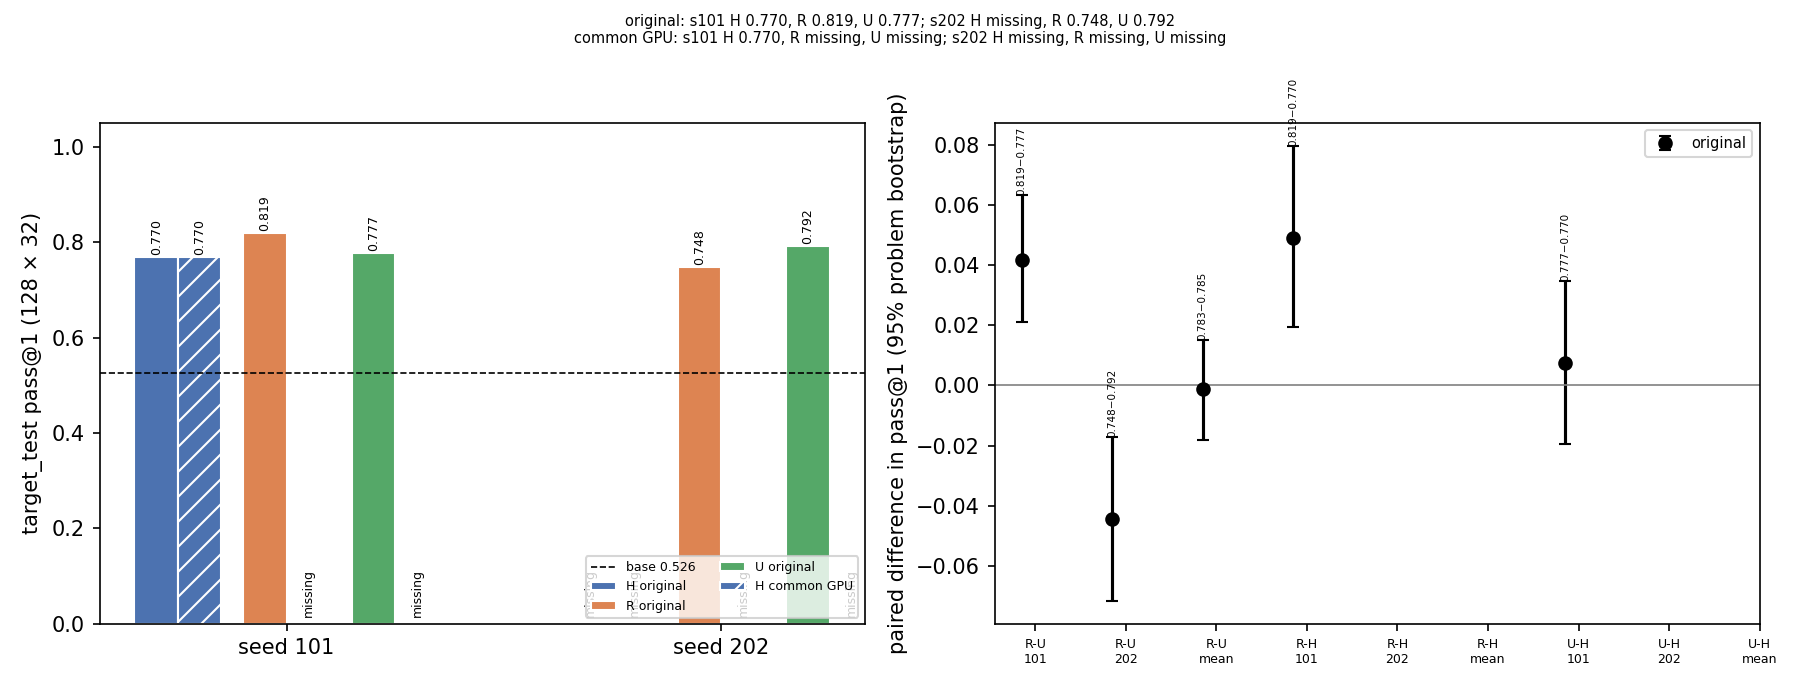
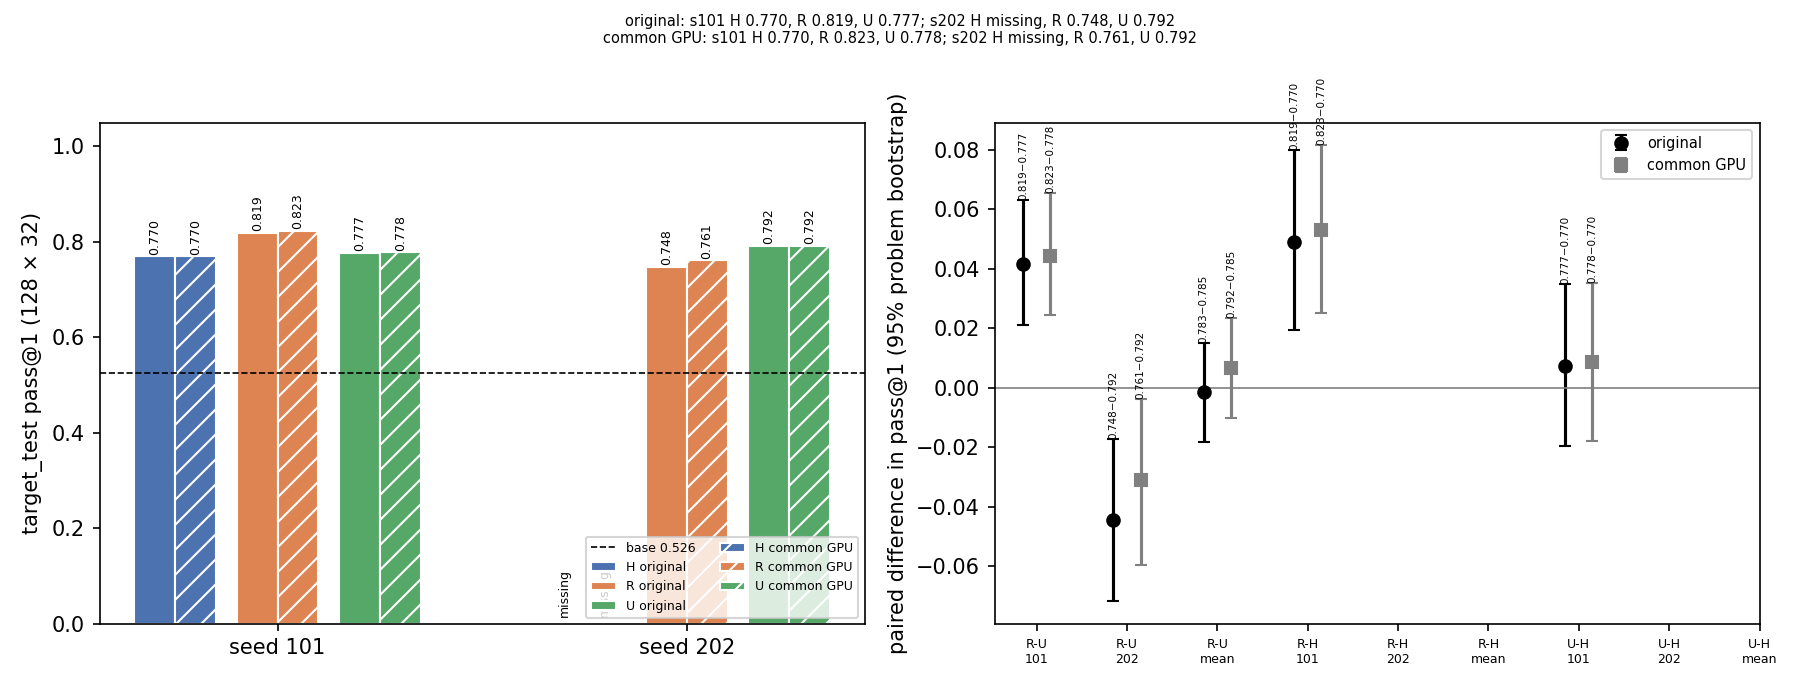
Review 100: common-GPU table complete (U-s101 L40S 0.778); REPORT section 1 filled; endpoints figure

diff --git a/research/CHECKLIST.md b/research/CHECKLIST.md
@@ -128,11 +128,11 @@ Priorities (§8 of A17): H-s202 > common-GPU R/U > CPU analyses > balanced stres
 - 8.1 active — H-s202 resume: checkpoint r60 verified (hashes OK, 01:45Z); job 11112377 general; `retain_rounds` [64]; trajectory a2-r60 is the endpoint; a2-orig kept (`metrics.pre_resume_a17.jsonl`). ETA round 128 from observed s/round (review updates it).
   - 8.1b ready (D150; trigger already met at 10:51Z: projected RUN_COMPLETE 23:30Z–00:20Z) — at 18:00Z: `ops/qis-submit qis-h202-fallback-copy` (CPU; copies model.pt + state.json of the round in LATEST.json to `ckpt/qis-main-H-s202-sym-fallback/ckpt/`, verifies the hash, writes ROUND.txt), then `qis-test-H-s202-fb-k0..k5 --after qis-h202-fallback-copy` (k0–1 general, k2–5 preempt; merge into `test-eval/qis-test-H-s202-sym-fallback`). LATEST.json parsing tested on the standby. Report as "H-s202 at round N (incomplete run)" outside primary tables.
   - 8.1a pending — sealed test as 6 shards `qis-test-H-s202-sym-k0..k5` (D149; merge validated on U-s202, byte-identical). Submit at RUN_COMPLETE (ETA ≈ 21:30Z, range 20:45–22:15Z; Review 94); test ≈ 1.7 h on 3 general GPUs; keep general free of stress work from ≈ 19:30Z; cut-off for the report ≈ 23:45Z.
-- 8.2 active (D141 frozen before any score) — common-GPU reruns, L40S, seed label `test-final`. H-s101 + base originals already L40S.
+- 8.2 done for R/U (11:55Z; H-s202 cell waits for its endpoint) (D141 frozen before any score) — common-GPU reruns, L40S, seed label `test-final`. H-s101 + base originals already L40S.
   - R-s101 11112395 done 05:43Z (L40S): pass@1 0.823 (original L40 0.819), pass@8 0.962, truncated 10.9% (orig 10.7%), 0 unknown, 3.93 h.
   - R-s202 11112396 done 05:57Z (L40S): pass@1 0.761 (original L40 0.748), pass@8 0.934, truncated 12.4% (orig 13.1%), 0 unknown, 4.15 h. Against U-s202 original (L40S) 0.792: R − U −0.031 (orig −0.044); sign kept. Intervals from a17_test --cgpu-root after U-s202 rerun.
   - U-s202 11112398 done 09:04Z: identical to original (4,096/4,096 token sequences). a17_test --cgpu-root run (D151; `research/evidence/a17/analysis/test-cgpu/`). Rerun a17_test when U-s101 rerun lands. Stress R-s202-r128 11112940 moved to general 05:59Z.
-  - U-s101 11112397 preempted 05:44Z after 2.95 h (no partial output; evaluator writes at end); pending on preempt. Lowest priority (D146); move to general only if a slot is free and ≥ 4.5 h remain before 19:30Z.
+  - U-s101 11112397 done: eval finished 11:18Z at the moment of preemption; moved to general, completed 11:53Z; ckpt hash verified. pass@1 0.778 (original 0.777); 1,964/4,096 identical sequences (same GPU type, different node). s101 R − U on L40S +0.044 [+0.024, +0.065]. a17_test rerun; REPORT §1 tables filled; endpoints figure redrawn (legend overlaps s202 bars: fix in 8.7).
 - 8.3 active — CPU analyses: `a17_test.py` (reversal §3.1, coverage §3.2, sampling null §3.5, endpoints §2) and `a17_train.py` (signal §3.3, persistence §3.4, dev transitions + n check §3.5, branches §4, figures 2–4); code by delegated agents → run on compute → verify against existing tables.
 - 8.4 active — Stress panels: rubric v1 committed (before export); pool 2,039 (MATH 1,104, Omni-MATH 769, OlympiadBench 166); 976 hash-ordered items in 8 agent-annotated batches; `qis.data.stress_panels` selects/dedups/verifies/freezes (job `qis-stress-select`); freeze → D142 with hashes. Risk: yield ≈ 8% per batch → may fall short of 128 per tier; extend annotation to the rest of the pool; report exact counts if short.
 - 8.5 active — Stress evals (`qis-stress-*`, L40S, n = 8, seed label stress-v1, 221 problems; every done cell: 1,768/1,768 attempts, 0 unknown; trained cells: ckpt hash verified):

diff --git a/research/REVIEWS.md b/research/REVIEWS.md
@@ -959,3 +959,25 @@ Opened 18:05Z; closed late at 19:05Z without an entry. Only action: monitor 1110
    fill REPORT sections from D151/D152.
 7. **Reconciliation.** Live IDs 11112377, 11112397 and standby 11112647 are ledger rows; 11115377 completed. Watcher re-armed
    after the R-s101-r64 event (task bqhmii0g8).
+
+## Review 100 — 2026-11-11 11:50Z (6:50 AM EST Wed)
+1. **Changes.**
+   - Response audit done (D153): 96 responses, two blind reads each, category agreement 88/96. 29 of 70 failure reads judged
+     fixable by more factoring practice. Grader limitation found (separate boxes → last box only); sealed test affected by
+     ≤ 3/4,096 attempts per cell (≤ 0.07 points).
+   - cgpu U-s101 11112397: eval finished 11:18Z at the moment of preemption (third job with this pattern, after 11113928
+     and 11115377). Moved to general; completed 11:53Z; ckpt hash verified. U-s101 L40S 0.778 vs original 0.777.
+   - Common-GPU table complete for R and U: s101 R − U 0.823 − 0.778 = +0.044 [+0.024, +0.065]; s202 −0.031 [−0.060,
+     −0.004]; mean +0.007 [−0.010, +0.023]. New: same GPU type is not always bit-identical (U-s101 1,964/4,096 identical
+     sequences; U-s202 4,096/4,096). pass@1 moved ≤ 1.3 points in every rerun. REPORT §1 filled; endpoints figure redrawn.
+   - CPU standby 11112647 was preempted 11:14Z and requeued on babel-m5-24 (running).
+2. **Competing explanation still plausible.** Unchanged: seed-level length drift against an arm effect (A9.4).
+3. **Distinguishing task.** None within scope. H-s202's endpoint adds the seed-202 H cell; it cannot separate run from arm.
+4. **Schedule.** H-s202 rounds 94–96 ran ×1.02 of H-s101 (len_mean fell to 4,292–4,344); round 96 at 11:13Z, then the r96
+   eval. Cumulative ×1.24 since round 66. Round 128 ≈ 21:20Z (×1.1) to 22:50Z (×1.27); RUN_COMPLETE ≈ 1 h later
+   (22:20Z–23:50Z); six-shard endpoint ≈ 1 h after that → 23:20Z–00:50Z. Endpoint before 00:30Z: possible, not likely.
+   D150 fallback stays at 18:00Z (decide by the rule then). Report: on time.
+5. **GPUs.** General 1/3 (H-s202). Preempt 0/6. Within limits.
+6. **Most important.** REPORT fill continues (What we learned item 1–2 wording with cgpu; section 8 run/cost table;
+   incomplete-cell list). Fix the endpoints legend overlap.
+7. **Reconciliation.** Live IDs 11112377 and standby 11112647 are ledger rows. Watcher re-armed (task bo4i0sb9k).

diff --git a/reports/REPORT.md b/reports/REPORT.md
@@ -73,7 +73,25 @@ L40S for every cell, unchanged code, and the original per-item sampling seeds. S
 rerun should reproduce its original exactly, and an R rerun changes only the hardware. H-s101 and the base model
 already ran on L40S under this recipe, so their originals are the common cells.
 
-⟨PENDING: common-GPU table and reproducibility table (identical attempts, identical c/32, Δ pass@1).⟩
+| Seed | H | R | U | R − U | R − H | U − H |
+|---|---|---|---|---|---|---|
+| 101 | 77.0% | 82.3% | 77.8% | 82.3 − 77.8 = +4.4 [+2.4, +6.5] | 82.3 − 77.0 = +5.3 [+2.5, +8.2] | 77.8 − 77.0 = +0.9 [−1.8, +3.5] |
+| 202 | ⟨PENDING⟩ | 76.1% | 79.2% | 76.1 − 79.2 = −3.1 [−6.0, −0.4] | ⟨PENDING⟩ | ⟨PENDING⟩ |
+| Mean | ⟨PENDING⟩ | 79.2% | 78.5% | 79.2 − 78.5 = +0.7 [−1.0, +2.3] | ⟨PENDING⟩ | ⟨PENDING⟩ |
+
+How closely each rerun reproduced its original (4,096 attempts each; every request seed identical):
+
+| Checkpoint | GPU: original → rerun | Identical token sequences | Identical score per problem (c/32) | pass@1 rerun − original |
+|---|---|---|---|---|
+| R-s101 | L40 → L40S | 48/4,096 | 62/128 | 82.3 − 81.9 = +0.4 [−0.8, +1.6] |
+| R-s202 | L40 → L40S | 133/4,096 | 46/128 | 76.1 − 74.8 = +1.3 [+0.2, +2.5] |
+| U-s101 | L40S → L40S | 1,964/4,096 | 79/128 | 77.8 − 77.7 = +0.1 [−1.0, +1.2] |
+| U-s202 | L40S → L40S | 4,096/4,096 | 128/128 | 79.2 − 79.2 = +0.0 |
+
+The GPU type does not explain the seed reversal. On one GPU type, R − U is still +4.4 points in seed 101 and −3.1
+in seed 202. A rerun moved pass@1 by at most 1.3 points, even where most token sequences changed. Even the same GPU type
+does not guarantee identical sequences: U-s202 reproduced exactly, but U-s101 matched on only 48% of attempts (a
+different node and a run two days later; the cause is unknown).
 
 ![Original and common-GPU endpoints](figures/a17/endpoints.png)
 

diff --git a/research/STATE.md b/research/STATE.md
@@ -50,8 +50,8 @@ truncation by arm/role reported, 5% crossing → inspect only. A6 thinking-mode 
 - H-s202 resumed from round 60 (a2-r60); original r60–64 records backed up (D143).
 
 ## Next actions
-1. Watch H-s202 (job 11112377; round 93 at 10:36Z, ×1.27 of H-s101 since round 66 → RUN_COMPLETE ≈ 23:30Z–00:20Z, after the deadline). D150 fallback trigger met: at 18:00Z copy the latest checkpoint and run the six-shard test on it. At RUN_COMPLETE submit the 6 endpoint shards.
-2. Common-GPU (D151): U-s202 L40S rerun identical to original (4,096/4,096 sequences). s202 R − U on L40S 0.761 − 0.792 = −0.031 [−0.060, −0.004]; hardware moved R by ≤ 1.3 points. U-s101 rerun (optional) running, ETA ≈ 11:30Z.
+1. Watch H-s202 (job 11112377; round 96 at 11:13Z; rounds 94–96 ×1.02 of H-s101, cumulative ×1.24 → round 128 ≈ 21:20Z–22:50Z, RUN_COMPLETE ≈ 22:20Z–23:50Z). D150 fallback decision at 18:00Z (recipes ready, 8.1b). At RUN_COMPLETE submit the 6 endpoint shards.
+2. Common-GPU (D151) complete for R and U: s101 R − U on L40S 0.823 − 0.778 = +0.044 [+0.024, +0.065]; s202 −0.031 [−0.060, −0.004]. Reruns moved pass@1 ≤ 1.3 points. Same GPU type is not always bit-identical (U-s101 48% identical sequences, U-s202 100%).
 3. Stress evals (D152, 8 of 9 cells): s101 R − U +0.042 [+0.015, +0.068], R − H +0.054 [+0.025, +0.082]; s202 R − U −0.027 [−0.051, −0.002] = truncation −0.063 + accuracy +0.036. R-s101 r64 → r128 +0.053, almost all truncation term. H-s202-r128 after RUN_COMPLETE.
-4. Response audit (D144) after stress evals; second-read agreement.
+4. Response audit done (D153): 29/70 failure reads fixable by more factoring practice; two-box grader limitation ≤ 0.07 pts on the sealed test.
 5. REPORT rewrite (What we learned; figures embedded; absolute values with deltas; dev n=8 fix); verification audit; deliver.

diff --git a/research/evidence/a17/analysis/test-cgpu/endpoints.md b/research/evidence/a17/analysis/test-cgpu/endpoints.md
@@ -14,9 +14,9 @@ Base model: pass@1 0.526, pass@8 0.835.
 
 | Seed | H | R | U | R − U | R − H | U − H | pass@8 H / R / U |
 |---|---|---|---|---|---|---|---|
-| 101 | 0.770 | 0.823 | missing | missing | 0.823 − 0.770 = +0.053 [+0.025, +0.082] | missing | 0.937 / 0.962 / missing |
+| 101 | 0.770 | 0.823 | 0.778 | 0.823 − 0.778 = +0.044 [+0.024, +0.065] | 0.823 − 0.770 = +0.053 [+0.025, +0.082] | 0.778 − 0.770 = +0.009 [-0.018, +0.035] | 0.937 / 0.962 / 0.951 |
 | 202 | missing | 0.761 | 0.792 | 0.761 − 0.792 = -0.031 [-0.060, -0.004] | missing | missing | missing / 0.934 / 0.949 |
-| Mean | missing | 0.792 | missing | missing | missing | missing | – |
+| Mean | missing | 0.792 | 0.785 | 0.792 − 0.785 = +0.007 [-0.010, +0.023] | missing | missing | – |
 
 Common-GPU cell sources: H-s101: original evaluation (ran on L40S); H-s202: endpoint /data/user_data/vineethb/qis/test-eval/qis-test-H-s202-sym (common-GPU); R-s101: qis-cgpu-R-s101; R-s202: qis-cgpu-R-s202; U-s101: qis-cgpu-U-s101; U-s202: qis-cgpu-U-s202; base: original evaluation (ran on L40S).
 
@@ -26,7 +26,7 @@ Common-GPU cell sources: H-s101: original evaluation (ran on L40S); H-s202: endp
 |---|---|---|---|---|---|---|
 | R-s101 | 3556/4096 | 4096/4096 | 48/4096 | 62/128 | 8 | 0.823 − 0.819 = +0.004 [-0.008, +0.016] |
 | R-s202 | 3455/4096 | 4096/4096 | 133/4096 | 46/128 | 8 | 0.761 − 0.748 = +0.013 [+0.002, +0.025] |
-| U-s101 | missing | | | | | |
+| U-s101 | 3691/4096 | 4096/4096 | 1964/4096 | 79/128 | 8 | 0.778 − 0.777 = +0.001 [-0.010, +0.012] |
 | U-s202 | 4096/4096 | 4096/4096 | 4096/4096 | 128/128 | 0 | 0.792 − 0.792 = +0.000 [+0.000, +0.000] |
 
 95% paired bootstrap over the 128 problems (10,000 draws, seed 2027; streams a9/<contrast>/s<seed> for the original table as in report_tables, a9/a17-cgpu/... and a9/a17-repro/... otherwise); conditional on these trained policies.
